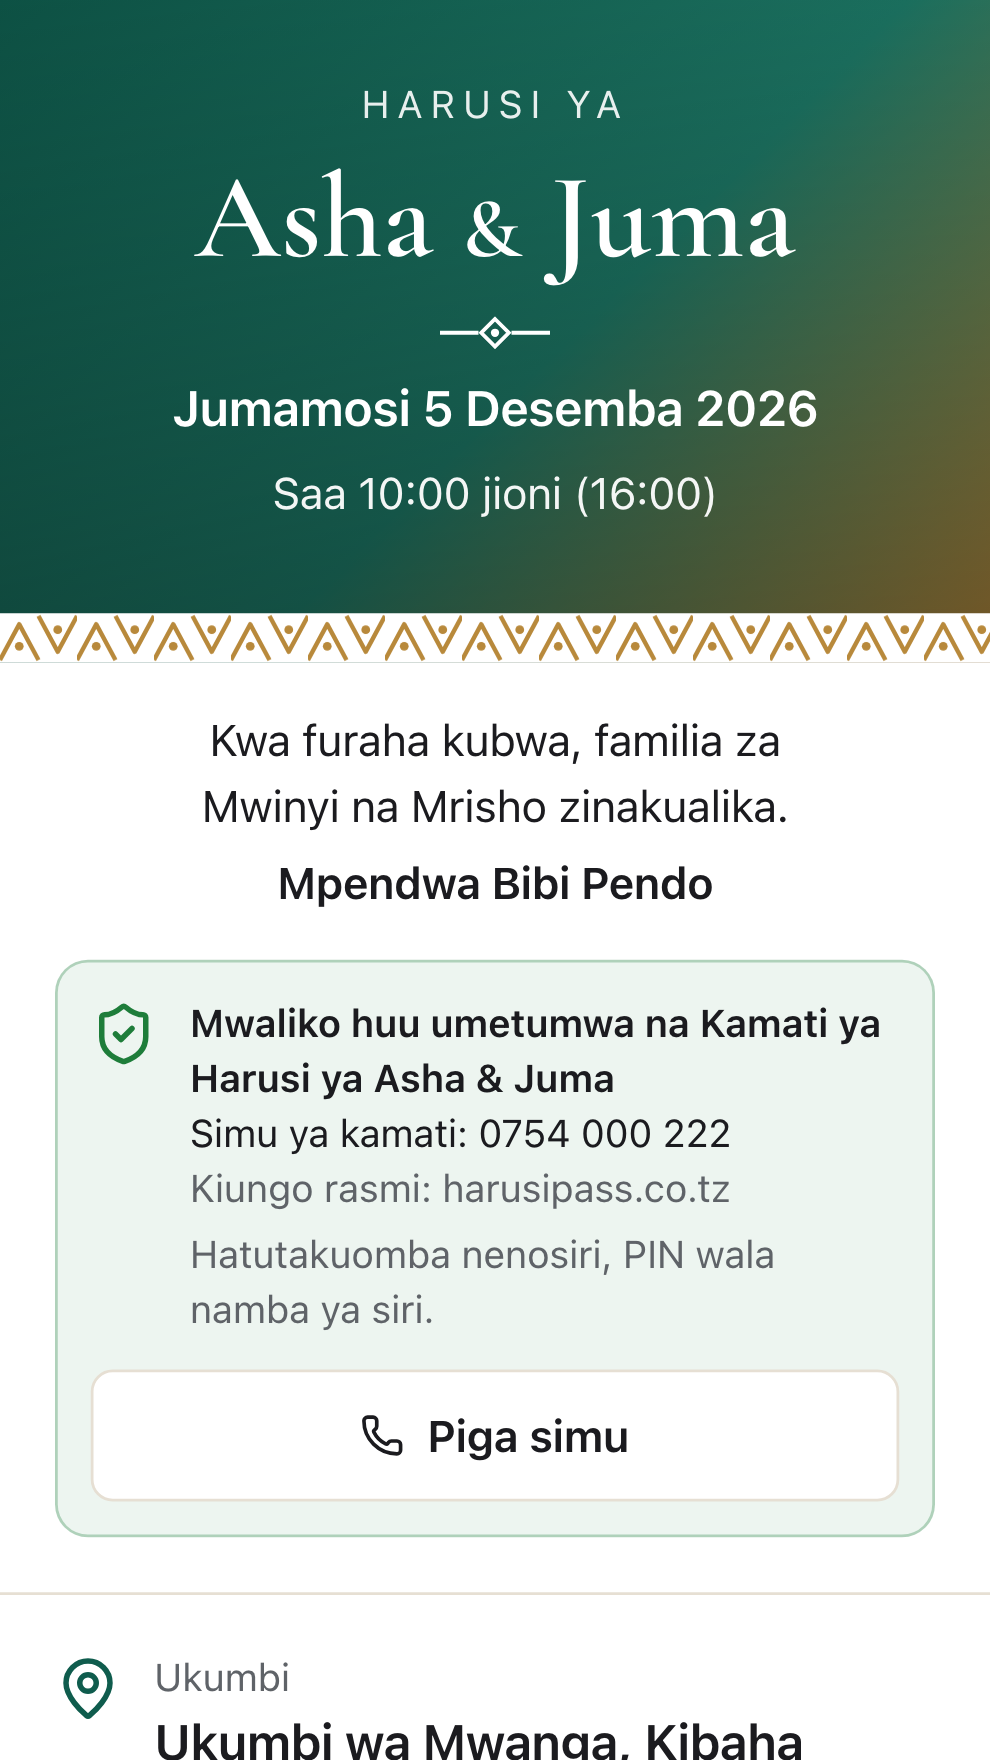
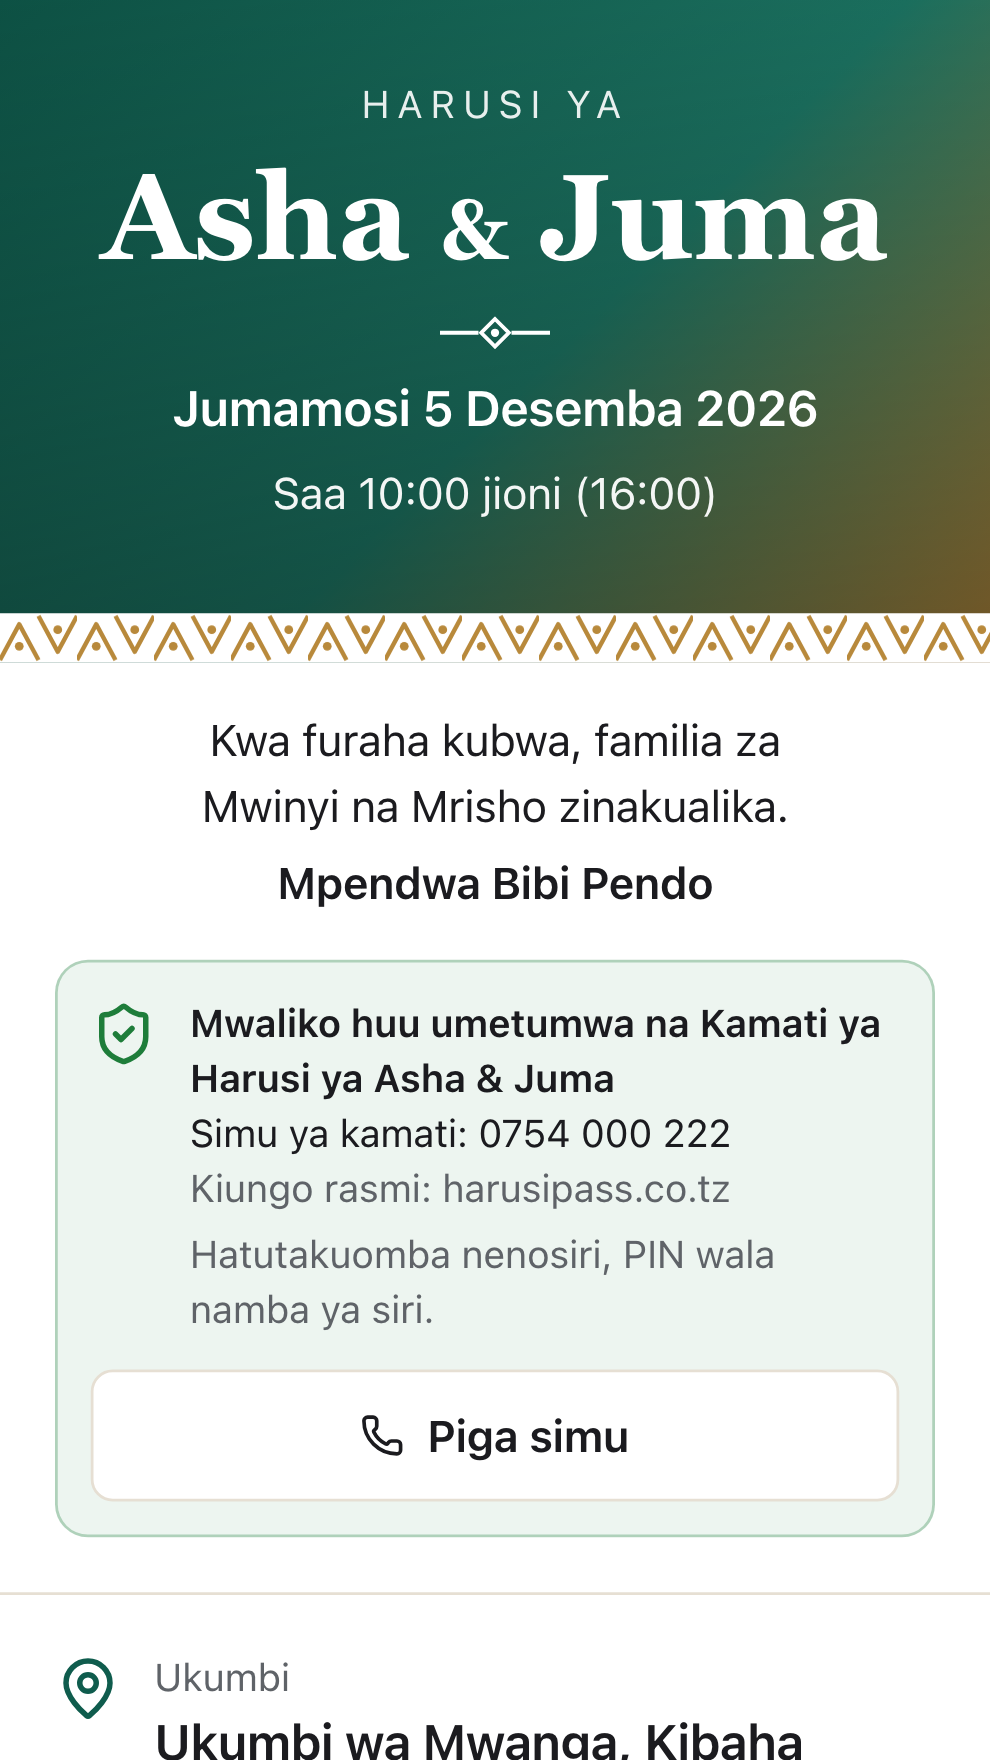
perf(web): drop the web font from the guest card — Lighthouse 0.93–0.97
The display serif is optional (§17.2) and its download sat in the LCP path.
Without it the guest card scores 0.93-0.95 and the landing page 0.94-0.97
(3 runs, simulated slow-4G mobile); LCP 2.2 s. ADR 009, PLAN and HANDOFF updated.

Changed region(s): [[0.0909, 0.0938, 0.5152, 0.1562], [0.5455, 0.0938, 0.9091, 0.1875]]

diff --git a/apps/web/app/c/layout.tsx b/apps/web/app/c/layout.tsx
@@ -1,7 +1,6 @@
 import type { Metadata } from 'next';
 import type { ReactNode } from 'react';
 import { SwRegister } from '@/components/card/sw-register';
-import { displaySerifPreloaded } from '@/lib/fonts-card';
 
 export const metadata: Metadata = { robots: { index: false, follow: false } };
 
@@ -9,7 +8,7 @@ export const metadata: Metadata = { robots: { index: false, follow: false } };
 export default function CardLayout({ children }: { children: ReactNode }) {
   return (
     <>
-      <div className={displaySerifPreloaded.variable}>{children}</div>
+      <div>{children}</div>
       <SwRegister />
     </>
   );

diff --git a/apps/web/app/globals.css b/apps/web/app/globals.css
@@ -24,7 +24,7 @@
   --radius-card: var(--hp-radius-card);
   --radius-input: var(--hp-radius-input);
   --font-sans: system-ui, -apple-system, 'Segoe UI', Roboto, 'Noto Sans', Ubuntu, sans-serif;
-  --font-display: var(--font-display-serif, Georgia), Georgia, 'Times New Roman', serif;
+  --font-display: var(--font-display-serif, Georgia), Georgia, Cambria, 'Times New Roman', serif;
   --font-mono: ui-monospace, 'SFMono-Regular', Menlo, Consolas, monospace;
 }
 

diff --git a/docs/ui/PLAN.md b/docs/ui/PLAN.md
@@ -118,21 +118,22 @@ Shared `<QueryState>` wrapper renders Skeleton / EmptyState / ErrorState (Jaribu
 
 ## 7. Milestones and acceptance checks
 
-| #   | Milestone                                                                                                                        | Acceptance checks                                                                                                                                                                                                             | Status                                                             |
-| --- | -------------------------------------------------------------------------------------------------------------------------------- | ----------------------------------------------------------------------------------------------------------------------------------------------------------------------------------------------------------------------------- | ------------------------------------------------------------------ |
-| M1  | Foundations: tokens, Tailwind, i18n (next-intl, cookie), layout shells, Storybook, Repository + MockRepository + seed, dev panel | typecheck/lint/test green; Storybook builds; seed tests (≥ 320 guests, 2 events, 3 members); locale cookie switch; dev panel toggles affect the mock                                                                          | ☑                                                                  |
-| M2  | Guest card + pay + offline PWA + /s, /k                                                                                          | §17.6 layout at 360 px (screenshots); all card states in `/dev/states`; RSVP idempotent + durable outbox (unit + e2e); QR PNG; .ics; offline after first load (e2e); pay success/decline/timeout (e2e); JS 116 KB gz < 120 KB | ☑ (Lighthouse below 90 — see M7)                                   |
-| M3  | Auth, events list, create wizard, Muhtasari                                                                                      | login with 123456; lockout after 5 wrong (unit); wizard autosave; KPIs/funnel from mock data                                                                                                                                  | ☑                                                                  |
-| M4  | Guests table, add, import, detail, reissue                                                                                       | virtualised table/list and import preview; invalid/duplicate flags; reissue → old link "imebadilishwa" (e2e); keyboard-only table run (e2e)                                                                                   | ☑                                                                  |
-| M5  | Send + progress, cards/print, pledges                                                                                            | send with injected failures → correct counters and retry (e2e); print rules block QR < 25 mm (e2e); cash payment updates balances (e2e)                                                                                       | ☑                                                                  |
-| M6  | Gate monitor, team, reports, settings, account, landing/legal                                                                    | manual check-in + duplicate (e2e); gate link + PIN shown once; typed-confirm delete                                                                                                                                           | ☑                                                                  |
-| M7  | Polish                                                                                                                           | axe: zero serious/critical on 20 routes × 2 locales × 2 viewports (e2e, 112 passed); screenshots in `docs/ui/screenshots`; HANDOFF.md; Lighthouse CI configured                                                               | ◐ Lighthouse mobile performance 0.79–0.86 (target 0.90); see below |
+| #   | Milestone                                                                                                                        | Acceptance checks                                                                                                                                                                                                             | Status                 |
+| --- | -------------------------------------------------------------------------------------------------------------------------------- | ----------------------------------------------------------------------------------------------------------------------------------------------------------------------------------------------------------------------------- | ---------------------- |
+| M1  | Foundations: tokens, Tailwind, i18n (next-intl, cookie), layout shells, Storybook, Repository + MockRepository + seed, dev panel | typecheck/lint/test green; Storybook builds; seed tests (≥ 320 guests, 2 events, 3 members); locale cookie switch; dev panel toggles affect the mock                                                                          | ☑                      |
+| M2  | Guest card + pay + offline PWA + /s, /k                                                                                          | §17.6 layout at 360 px (screenshots); all card states in `/dev/states`; RSVP idempotent + durable outbox (unit + e2e); QR PNG; .ics; offline after first load (e2e); pay success/decline/timeout (e2e); JS 116 KB gz < 120 KB | ☑                      |
+| M3  | Auth, events list, create wizard, Muhtasari                                                                                      | login with 123456; lockout after 5 wrong (unit); wizard autosave; KPIs/funnel from mock data                                                                                                                                  | ☑                      |
+| M4  | Guests table, add, import, detail, reissue                                                                                       | virtualised table/list and import preview; invalid/duplicate flags; reissue → old link "imebadilishwa" (e2e); keyboard-only table run (e2e)                                                                                   | ☑                      |
+| M5  | Send + progress, cards/print, pledges                                                                                            | send with injected failures → correct counters and retry (e2e); print rules block QR < 25 mm (e2e); cash payment updates balances (e2e)                                                                                       | ☑                      |
+| M6  | Gate monitor, team, reports, settings, account, landing/legal                                                                    | manual check-in + duplicate (e2e); gate link + PIN shown once; typed-confirm delete                                                                                                                                           | ☑                      |
+| M7  | Polish                                                                                                                           | axe: zero serious/critical on 20 routes × 2 locales × 2 viewports (e2e, 112 passed); screenshots in `docs/ui/screenshots`; HANDOFF.md; Lighthouse CI configured                                                               | ☑ Lighthouse 0.93–0.97 |
 
 ### Open items
 
-- **Lighthouse ≥ 90 not yet met.** Simulated slow-4G mobile runs give `/` 0.84–0.86 and `/c/[token]` ~0.8. The remaining cost is React/Next hydration (~500 ms long task at 4× CPU) and, on the card, the mock data layer. Mitigations already in: inline CSS, server-rendered QR, tiny i18n, preloaded `font-display: optional` card font, deferred card refresh. Next options: serve the guest card as static HTML + a small vanilla script (ADR 009), or measure with `HttpRepository` once it exists (the mock chunk disappears).
-- **< 100 KB initial load** conflicts with the mandated Next.js stack (ADR 009).
+- **Lighthouse ≥ 90: met.** `/` 0.94–0.97 and `/c/[token]` 0.93–0.95 (3 runs each, simulated slow-4G mobile) after dropping the web font from the guest card (ADR 009).
+- **< 100 KB initial load** conflicts with the mandated Next.js stack (ADR 009); the card is 116 KB gz of JS (< 120 KB budget).
 - Native-speaker Swahili review pending (`sw.json` `_meta.reviewed: false`).
+- Staff panel: pricing, invoices, refunds, staff sub-roles and 2FA are undecided (ADR 012).
 
 Each milestone ends with: run app → check in browser at 360×640 and 1280×800 → fix defects → update this table → Conventional Commit.
 

diff --git a/docs/adr/009-guest-card-budget.md b/docs/adr/009-guest-card-budget.md
@@ -22,10 +22,10 @@ Status: accepted (with a recorded conflict)
 
 `CLAUDE.md` §7.3 asks for an initial load < 100 KB, and the brief repeats it as "< 100 KB transfer". With the stack mandated in §3 (Next.js App Router), the framework runtime alone is 103 KB gz, so < 100 KB total transfer is not achievable on this stack. We meet the §10 JS budget (< 120 KB gz) and keep HTML + CSS + font small. Options if the 100 KB target is firm: (a) serve `/c/[token]` as a static HTML + ~10 KB vanilla-JS page from a route handler, keeping Next.js for the console; (b) wait for a lighter React runtime. Decision deferred to the spec owner.
 
-## Font display on the guest card
+## No web font on the guest card (decision)
 
-§17.2 asks for `font-display: swap`. On the guest card the couple names (display serif) are the LCP element, and a late swap on slow networks repaints them and re-triggers LCP (measured 2.7–2.9 s). The card therefore preloads the font with `font-display: optional`: the first visit on a slow network may show the fallback serif, and later opens use the cached font. Everywhere else (console previews) the font keeps `swap` and is not preloaded. Revert to `swap` if the spec owner prefers brand fidelity over the LCP target.
+The display serif is optional in §17.2. Loading it (Cormorant Garamond via `next/font`) cost the guest card about 0.1 Lighthouse points: the couple names are the LCP element and the font download sat in its path. Preloading it, `font-display: optional` and `swap` were all tried (scores 0.78–0.88). With the font removed, the card falls back to the Georgia/Times serif stack and scores **0.93–0.95** (landing page 0.94–0.97), LCP 2.2 s, in the same simulated slow-4G mobile profile. The font stays in the console, where it only decorates the card/print previews and is not on a performance-critical path. Revisit with a self-hosted, subset (≤ 30 KB) woff2 inlined as base64 only if brand fidelity on the guest card is required.
 
 ## Lighthouse status
 
-Mobile simulated slow 4G: `/` 0.84–0.86, `/c/[token]` ~0.8 (target 0.90). The dominant cost is hydrating React/Next (~500 ms long task at 4× CPU throttling). See `docs/ui/PLAN.md` open items.
+Mobile simulated slow 4G, 3 runs each: `/` 0.94–0.97, `/c/[token]` 0.93–0.95 (target 0.90, met). The < 100 KB initial-load target is still unmet (see Conflict above): the card ships 116 KB gz of JavaScript.

diff --git a/docs/ui/HANDOFF.md b/docs/ui/HANDOFF.md
@@ -33,6 +33,7 @@ Harusi Pass employees run the business from `/ops` (ADR 012): overview, customer
 
 ## Known gaps
 
+- **Lighthouse** is met (0.93–0.97 mobile) because the guest card uses a system serif instead of the web font; re-adding it costs ~0.1 (ADR 009).
 - **Guest card "< 100 KB initial load"** (§7.3) is not achievable with Next.js App Router: the framework runtime alone is 103 KB gz. The card meets the 120 KB gz JS budget (§10) at 116 KB. See ADR 009 for options.
 - **Mock-mode bundle**: in mock mode the repository chunk (seed generator + zod) loads after first paint on the guest card. The real `HttpRepository` will be much smaller.
 - **Cover photos** are mocked with gradients; real uploads need S3 (§3) and image optimisation (AVIF/WebP, ≤ 40 KB).
